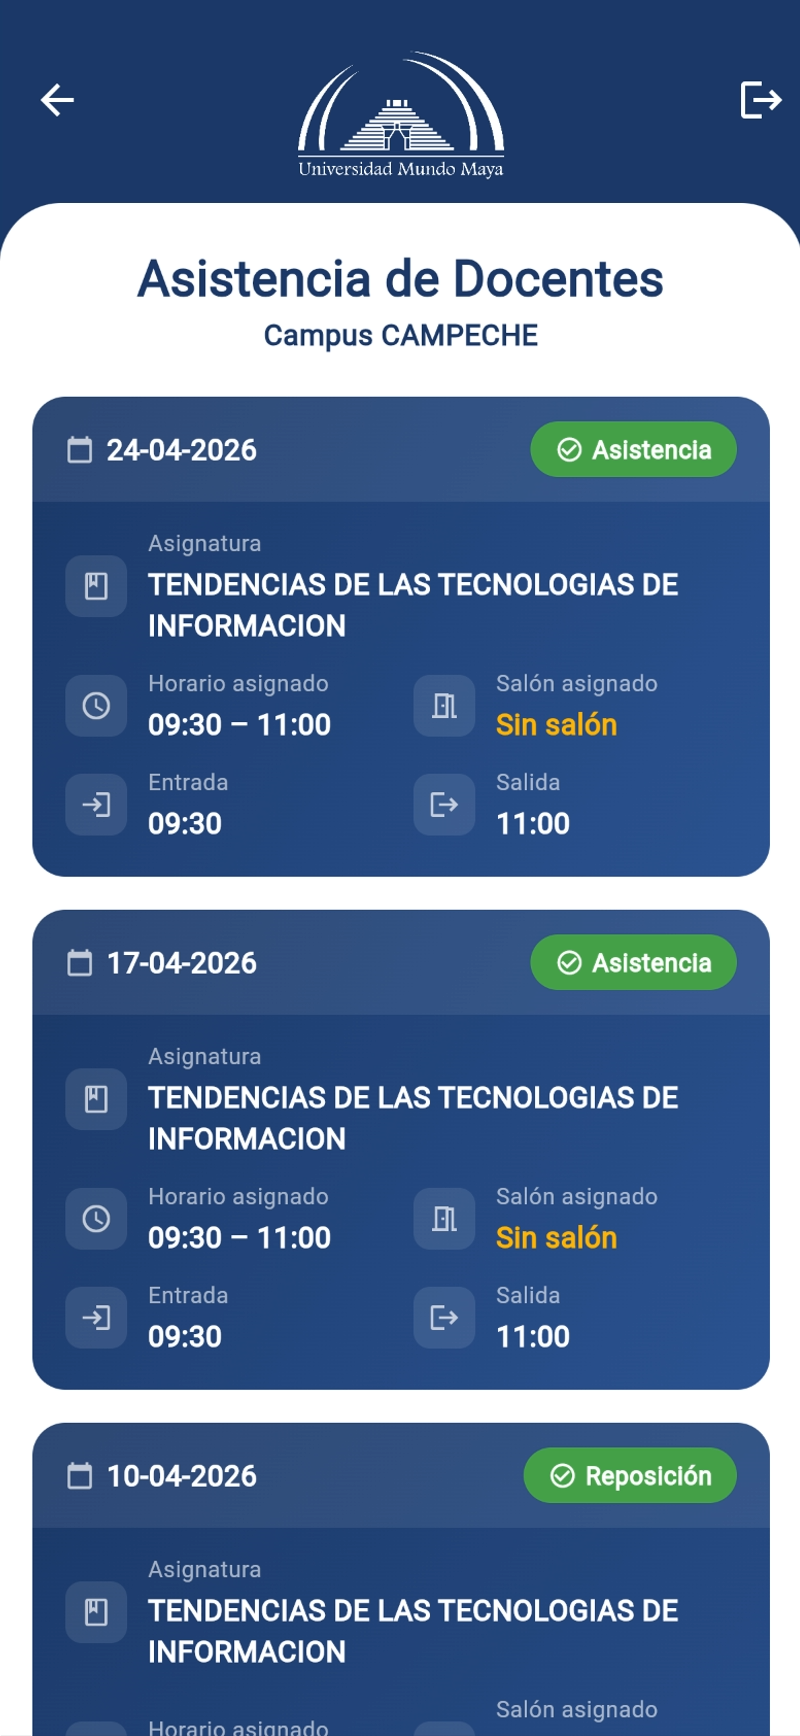
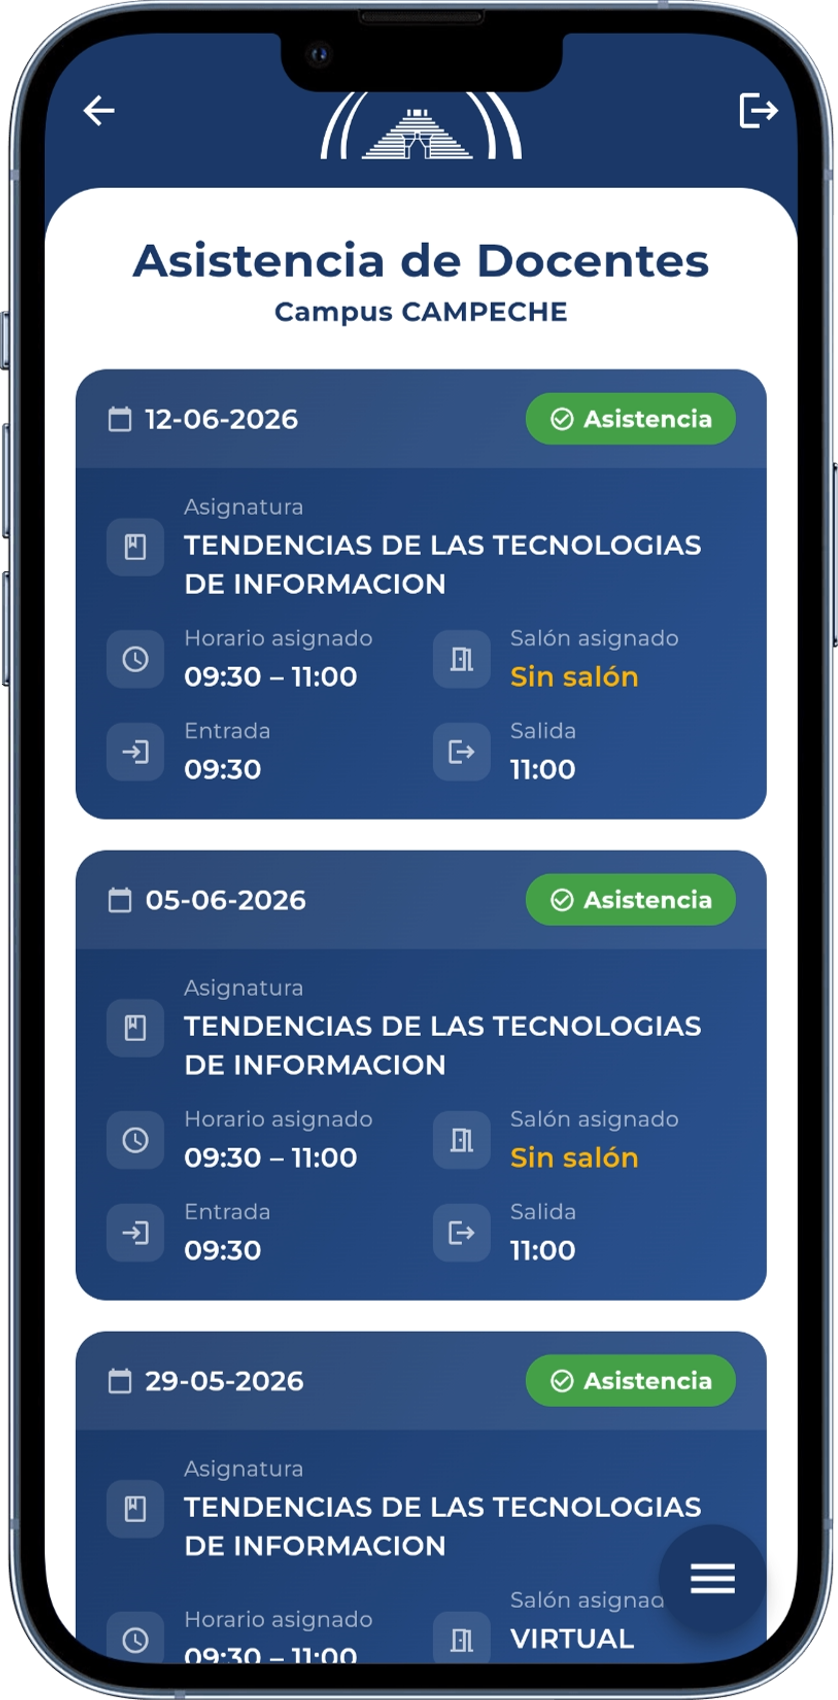
Mejoras

diff --git a/docs/Docentes/Control_asistencias.md b/docs/Docentes/Control_asistencias.md
@@ -4,13 +4,97 @@ sidebar_position: 2
 hide_table_of_contents: true
 ---
 
-import DualLayout from '@site/src/components/DualLayout';
+import Link from '@docusaurus/Link'; 
+import React, { useState } from 'react';
+import IphoneWrapper from '@site/src/components/IphoneWrapper';
 
-<DualLayout 
-  imageSrc="/img/Docentes/AsistenciaDoc.png" 
-  altText="Agregar Servicio" 
-  stickyImage={true}
->
+export const ArrowSlider = () => {
+  const [index, setIndex] = useState(0);
+  
+  const media = [
+    { type: 'image', src: '/img/Docentes/AsistenciaDoc.png' },
+    { type: 'image', src: '/img/Docentes/RegistrarFaltaDoc.png' }
+
+  ];
+
+  const siguienteImagen = () => {
+    setIndex((prev) => (prev === media.length - 1 ? 0 : prev + 1));
+  };
+
+  const anteriorImagen = () => {
+    setIndex((prev) => (prev === 0 ? media.length - 1 : prev - 1));
+  };
+
+  const botonStyle = {
+    position: 'absolute',
+    top: '50%',
+    transform: 'translateY(-50%)',
+    backgroundColor: 'rgba(0, 0, 0, 0.5)',
+    color: 'white',
+    border: 'none',
+    width: '40px',
+    height: '40px',
+    borderRadius: '50%',
+    cursor: 'pointer',
+    display: 'flex',
+    alignItems: 'center',
+    justifyContent: 'center',
+    zIndex: 10,
+    transition: 'background-color 0.3s ease',
+  };
+
+  const FlechaIzquierda = () => (
+    <svg width="24" height="24" viewBox="0 0 24 24" fill="none" stroke="currentColor" strokeWidth="2" strokeLinecap="round" strokeLinejoin="round"><polyline points="15 18 9 12 15 6"></polyline></svg>
+  );
+
+  const FlechaDerecha = () => (
+    <svg width="24" height="24" viewBox="0 0 24 24" fill="none" stroke="currentColor" strokeWidth="2" strokeLinecap="round" strokeLinejoin="round"><polyline points="9 18 15 12 9 6"></polyline></svg>
+  );
+
+  return (
+    <div style={{ position: 'relative', width: '100%', overflow: 'hidden', borderRadius: '12px' }}>
+      
+      <button 
+        onClick={anteriorImagen} 
+        style={{ ...botonStyle, left: '10px' }}
+        aria-label="Anterior"
+      >
+        <FlechaIzquierda />
+      </button>
+
+      <IphoneWrapper>
+        <img 
+          src={media[index].src} 
+          style={{ width: '100%', height: '100%', objectFit: 'cover' }} 
+          alt="Contenido Cobranza" 
+        />
+      </IphoneWrapper>
+
+      <button 
+        onClick={siguienteImagen} 
+        style={{ ...botonStyle, right: '10px' }}
+        aria-label="Siguiente"
+      >
+        <FlechaDerecha />
+      </button>
+
+      <div style={{ position: 'absolute', bottom: '15px', left: '50%', transform: 'translateX(-50%)', display: 'flex', gap: '8px', zIndex: 10 }}>
+        {media.map((_, i) => (
+          <div key={i} style={{
+            width: '10px',
+            height: '10px',
+            borderRadius: '50%',
+            backgroundColor: i === index ? 'white' : 'rgba(255, 255, 255, 0.5)',
+          }}/>
+        ))}
+      </div>
+    </div>
+  );
+};
+
+<div style={{ display: 'grid', gridTemplateColumns: '1fr 300px', gap: '70px', paddingLeft: '50px', alignItems: 'start' }}>
+
+  <div> 
 
 Este módulo es la herramienta principal para el monitoreo de la puntualidad y el cumplimiento de la carga horaria del profesorado. Permite a la administración tener un registro detallado de la operatividad diaria en las aulas, garantizando que el servicio educativo se imparta conforme a la planeación.
 
@@ -25,17 +109,24 @@ Cada entrada en este módulo proporciona una radiografía completa de la activid
 * **Registro de Entrada y Salida:** Tiempos reales en los que el docente marcó su actividad.
 * **Retardos:** Registro automático en caso de que el docente exceda el tiempo de tolerancia para el inicio de la clase.
 
-### Gestión de Reposiciones
-El sistema ofrece un apartado especial para la recuperación de clases, permitiendo dar seguimiento a la cobertura total del temario:
+#### Gestión de Reposiciones
+El sistema ofrece un apartado especial para la programación y recuperación de clases. Este módulo permite al docente gestionar inasistencias de manera anticipada y coordinar la recuperación de horas lectivas mediante los siguientes pasos:
 
-* **Fecha de Reposición:** Fecha exacta en la que se llevará a cabo la sesión recuperada.
-* **Modalidad:** Indicador de si la clase de reposición se impartirá de forma Presencial o Virtual, facilitando la logística de espacios o recursos digitales necesarios.
+* **Notificación de Inasistencia:** Aviso previo generado por el docente indicando el día en que no podrá impartir la clase.
+* **Programación de Fecha:** Registro del día y horario en que se llevará a cabo la recuperación de la sesión.
+* **Proceso de Aprobacion:** Una vez aprobada la reposición, se enviará una notificación automática al correo institucional del docente.
 
 ### Propósito del Módulo
-La centralización de estos datos permite a la institución:
+La consolidación y automatización de estos registros permite a la institución:
 
-* **Auditoría Académica:** Verificar que todas las horas de clase programadas sean cubiertas.
-* **Transparencia:** Mantener un historial objetivo sobre faltas y retardos.
-* **Flexibilidad Administrativa:** Coordinar de manera ordenada las clases de reposición, asegurando que los alumnos reciban la totalidad de los contenidos del programa.
+* **Garantizar el Cumplimiento Académico:** Asegurar la cobertura total del temario y las horas de clase estipuladas en el plan de estudios.
+* **Optimizar la Gestión Institucional:** Agilizar la coordinación de horarios, aulas y avisos a los alumnos ante cualquier ajuste en el calendario.
+* **Mantener la Transparencia:** Proporcionar un historial objetivo y accesible de asistencia, retardos e incidencias para el docente y la administración.
 
-</DualLayout>
+</div>
+
+  <div style={{ width: '300px', position: 'sticky', top: '100px' }}>
+    <ArrowSlider />
+  </div>
+
+</div>

diff --git a/docs/Docentes/Ausencias_alumnos.md b/docs/Docentes/Ausencias_alumnos.md
@@ -87,23 +87,21 @@ export const ArrowSlider = () => {
 
   <div style={{ flex: '1 1 400px' }}>
 
+<div>
 Este módulo constituye la herramienta central para que el personal docente ejecute un seguimiento personalizado y riguroso del cumplimiento escolar. La interfaz implementa un filtro inteligente de seguridad que despliega únicamente las materias vinculadas al perfil del docente dentro del ciclo escolar activo, asegurando que la gestión administrativa sea precisa y esté restringida a su carga académica autorizada.
 
-Panel de Consulta de Inasistencias
-En este apartado, se presenta un historial consolidado de los alumnos con incidencias de inasistencia. Esta vista centralizada está diseñada para facilitar el análisis de datos, permitiendo a los docentes detectar patrones de ausentismo de forma temprana y generar reportes para las estrategias de retención académica de la institución.
+### Panel de Consulta de Inasistencias
+En este apartado, se presenta un historial consolidado de los alumnos con incidencias de inasistencia. Esta vista centralizada está diseñada para facilitar el análisis de datos, permitiendo a los docentes detectar patrones de ausentismo de forma temprana y apoyar las estrategias de retención académica de la institución.
 
-Registro de Nueva Inasistencia
+### Registro de Nueva Inasistencia
 El sistema optimiza el flujo de captura mediante un formulario dinámico que garantiza la integridad de la información. Para efectuar un registro correcto, siga este procedimiento:
 
-Navegación: Acceda a la sección de "Registro de Faltas" desde el menú principal del módulo.
-
-Selección de Clase: Identifique y seleccione la materia específica dentro de su listado de cursos vigentes.
-
-Cronología del Evento: Defina en el calendario interactivo la fecha exacta de la ausencia. El sistema validará automáticamente que la fecha corresponda al ciclo lectivo en curso.
-
-Vinculación del Alumno: Ingrese la matrícula del estudiante. El sistema realizará una validación en tiempo real para confirmar que el alumno se encuentre inscrito y activo en la lista de asistencia del grupo seleccionado, evitando errores de duplicidad o registros cruzados.
-
-Finalización: Tras verificar los datos, presione el botón "Guardar" o "Agregar Falta". El registro se impactará de inmediato en el expediente académico del alumno y quedará disponible para consulta administrativa.
+* **Navegación:** Acceda a la sección de **"Registro de Faltas"** desde el menú principal del módulo.
+* **Selección de Clase:** Identifique y seleccione la materia específica dentro de su listado de cursos vigentes.
+* **Cronología del Evento:** Defina en el calendario interactivo la fecha exacta de la ausencia. El sistema validará automáticamente que la fecha corresponda al ciclo lectivo en curso.
+* **Vinculación del Alumno:** Ingrese la **matrícula** del estudiante. El sistema realizará una validación en tiempo real para confirmar que el alumno se encuentre inscrito y activo en la lista de asistencia del grupo seleccionado, evitando errores de duplicidad o registros cruzados.
+* **Finalización:** Tras verificar los datos, presione el botón **"Guardar"** o **"Agregar Falta"**. El registro se impactará de inmediato en el expediente académico del alumno y quedará disponible para consulta administrativa.
+</div>
   </div>
 
   {/* Columna del Slider - Estática y Arriba en móvil */}

diff --git a/docs/Administrativos/index.md b/docs/Administrativos/index.md
@@ -19,6 +19,14 @@ pagination_prev: null
     <img src={require('@site/src/components/Icons/paid.png').default} className="icon-admin-svg" />
     <h3>Cobranza</h3>
   </a>
+  <a href="./Deportes/" className="card-total">
+    <img src={require('@site/src/components/Icons/Ball.png').default} className="icon-admin-svg" />
+    <h3>Deportes</h3>
+  </a>
+  <a href="./Enfermeria/" className="card-total">
+    <img src={require('@site/src/components/Icons/Medical.png').default} className="icon-admin-svg" />
+    <h3>Enfermeria</h3>
+  </a>
   <a href="./Eventos/" className="card-total">
     <img src={require('@site/src/components/Icons/calendar.png').default} className="icon-admin-svg" />
     <h3>Eventos</h3>
@@ -42,6 +50,10 @@ pagination_prev: null
   <a href="./Inventario/" className="card-total">
     <img src={require('@site/src/components/Icons/Inventory.png').default} className="icon-admin-svg" />
     <h3>Inventario</h3>
+  </a>
+  <a href="./Justificantes/" className="card-total">
+    <img src={require('@site/src/components/Icons/Justificante.png').default} className="icon-admin-svg" />
+    <h3>Justificantes</h3>
   </a>
   <a href="./Materias/" className="card-total">
     <img src={require('@site/src/components/Icons/MenuBook.png').default} className="icon-admin-svg" />

diff --git a/docs/Administrativos/Justificantes/index.md b/docs/Administrativos/Justificantes/index.md
@@ -1,0 +1,25 @@
+---
+title: Justificantes    
+pagination_prev: null
+---
+
+# Configuración del Sistema
+
+<div className="grid-gestion-total">
+
+  <a href="./Configurar_Justificantes" className="card-total">
+    <img src={require('@site/src/components/Icons/Settings.png').default} className="icon-admin-svg" />
+    <h3>Configurar Justificantes</h3>
+  </a>
+
+  <a href="./Crear_Justificantes" className="card-total">
+    <img src={require('@site/src/components/Icons/Security.png').default} className="icon-admin-svg" />
+    <h3>Crear Justificantes</h3>
+  </a>
+
+  <a href="./Verificar_Justificantes" className="card-total">
+    <img src={require('@site/src/components/Icons/Security.png').default} className="icon-admin-svg" />
+    <h3>Verificar Justificantes</h3>
+  </a>
+
+</div>

diff --git a/docs/Administrativos/Enfermeria/index.md b/docs/Administrativos/Enfermeria/index.md
@@ -1,0 +1,24 @@
+---
+title: Enfermeria    
+pagination_prev: null
+---
+
+
+<div className="grid-gestion-total">
+
+  <a href="./Agregar_Visita" className="card-total">
+    <img src={require('@site/src/components/Icons/Add_Box.png').default} className="icon-admin-svg" />
+    <h3>Agregar Visita</h3>
+  </a>
+
+  <a href="./Inventario" className="card-total">
+    <img src={require('@site/src/components/Icons/Inventory.png').default} className="icon-admin-svg" />
+    <h3>Inventario</h3>
+  </a>
+
+<a href="./Ficha_Clinica" className="card-total">
+    <img src={require('@site/src/components/Icons/FichaClinica.png').default} className="icon-admin-svg" />
+    <h3>Ficha Clinica</h3>
+  </a>
+
+</div>

diff --git a/docs/Administrativos/Deportes/index.md b/docs/Administrativos/Deportes/index.md
@@ -1,0 +1,18 @@
+---
+title: Deportes    
+pagination_prev: null
+---
+
+<div className="grid-gestion-total">
+
+  <a href="./Categorias" className="card-total">
+    <img src={require('@site/src/components/Icons/Category.png').default} className="icon-admin-svg" />
+    <h3>Categorias</h3>
+  </a>
+
+  <a href="./Registrar_Asistencia" className="card-total">
+    <img src={require('@site/src/components/Icons/CalendarClock.png').default} className="icon-admin-svg" />
+    <h3>Registrar Asistencia</h3>
+  </a>
+
+</div>

diff --git a/docs/Alumnos/index.md b/docs/Alumnos/index.md
@@ -10,6 +10,7 @@ title: Alumnos
         <AdminCard title="Citas de Cobranza" iconName="paid.png" link="./Citas_Cobranza" />
         <AdminCard title="Eventos" iconName="calendar.png" link="./Eventos" />
         <AdminCard title="Transporte UMMA" iconName="Bus.png" link="./Transporte_UMMA" />
+        <AdminCard title="Control de asistencia" iconName="CalendarClock.png" link="./Transporte_UMMA" />
       </>
     );
   })()}

diff --git a/docs/Administrativos/Justificantes/Configurar_Justificantes.md b/docs/Administrativos/Justificantes/Configurar_Justificantes.md
@@ -1,0 +1,5 @@
+---
+title: Configurar Justificantes
+sidebar_position: 1
+hide_table_of_contents: true
+---

diff --git a/docs/Administrativos/Justificantes/Verificar_Justificantes.md b/docs/Administrativos/Justificantes/Verificar_Justificantes.md
@@ -1,0 +1,5 @@
+---
+title: Verificar Justificantes
+sidebar_position: 3
+hide_table_of_contents: true
+---

diff --git a/docs/Administrativos/Deportes/Registrar_Asistencia.md b/docs/Administrativos/Deportes/Registrar_Asistencia.md
@@ -1,0 +1,5 @@
+---
+title: Registrar Asistencia
+sidebar_position: 2
+hide_table_of_contents: true
+---

diff --git a/docs/Administrativos/Justificantes/Crear_Justificantes.md b/docs/Administrativos/Justificantes/Crear_Justificantes.md
@@ -1,0 +1,5 @@
+---
+title: Crear Justificantes
+sidebar_position: 2
+hide_table_of_contents: true
+---

diff --git a/docs/Administrativos/Enfermeria/Agregar_Visita.md b/docs/Administrativos/Enfermeria/Agregar_Visita.md
@@ -1,0 +1,5 @@
+---
+title: Agregar Visita
+sidebar_position: 1
+hide_table_of_contents: true
+---
